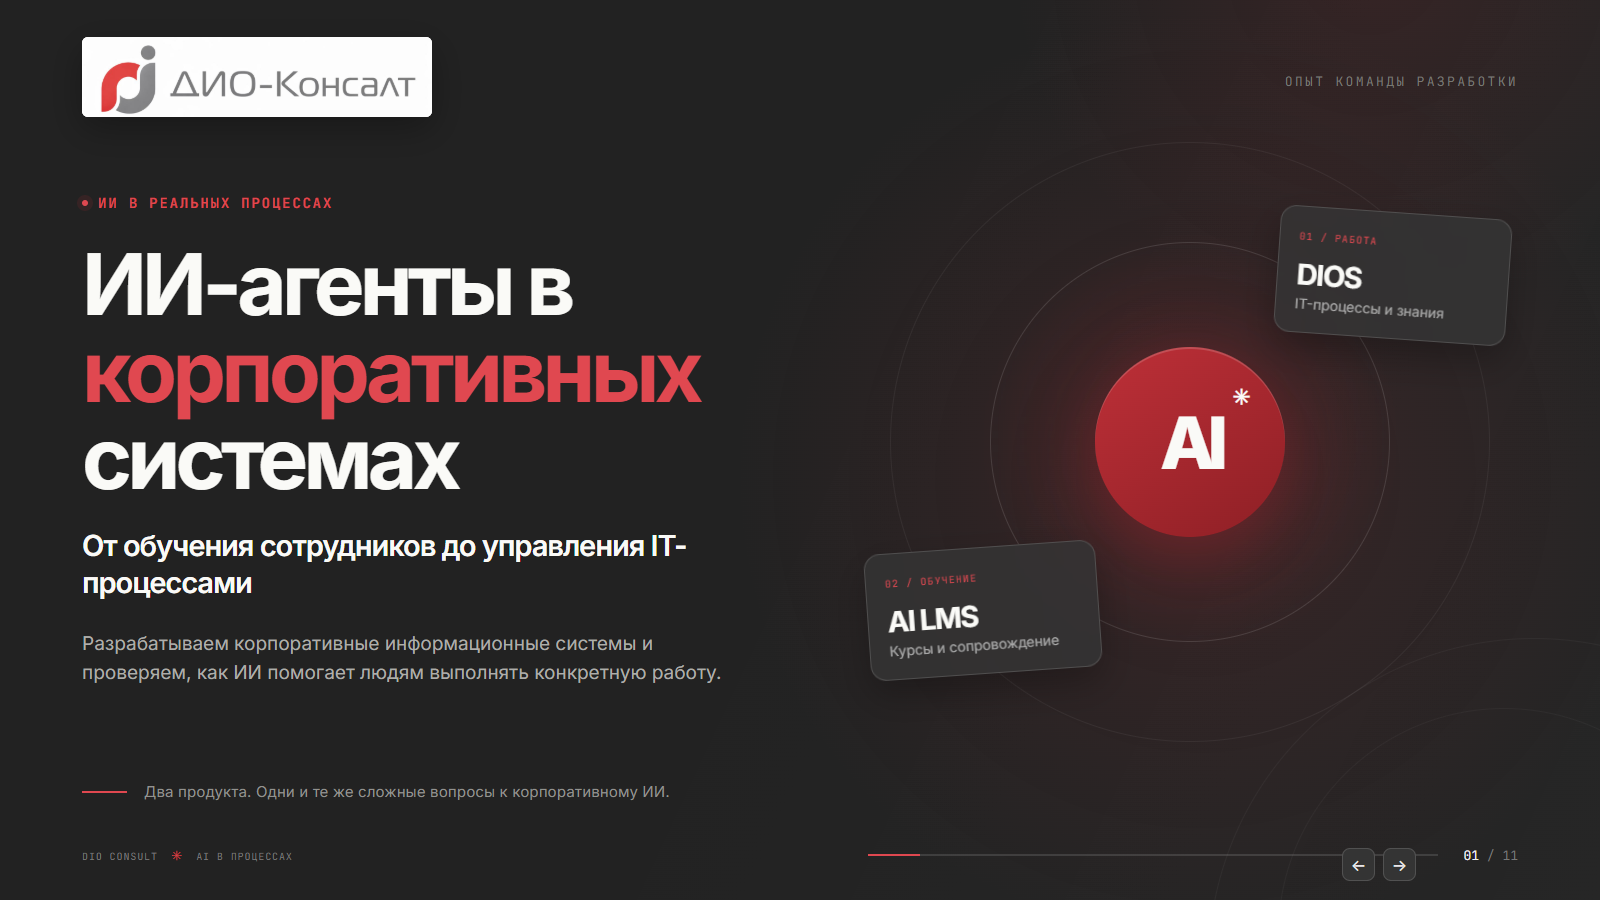
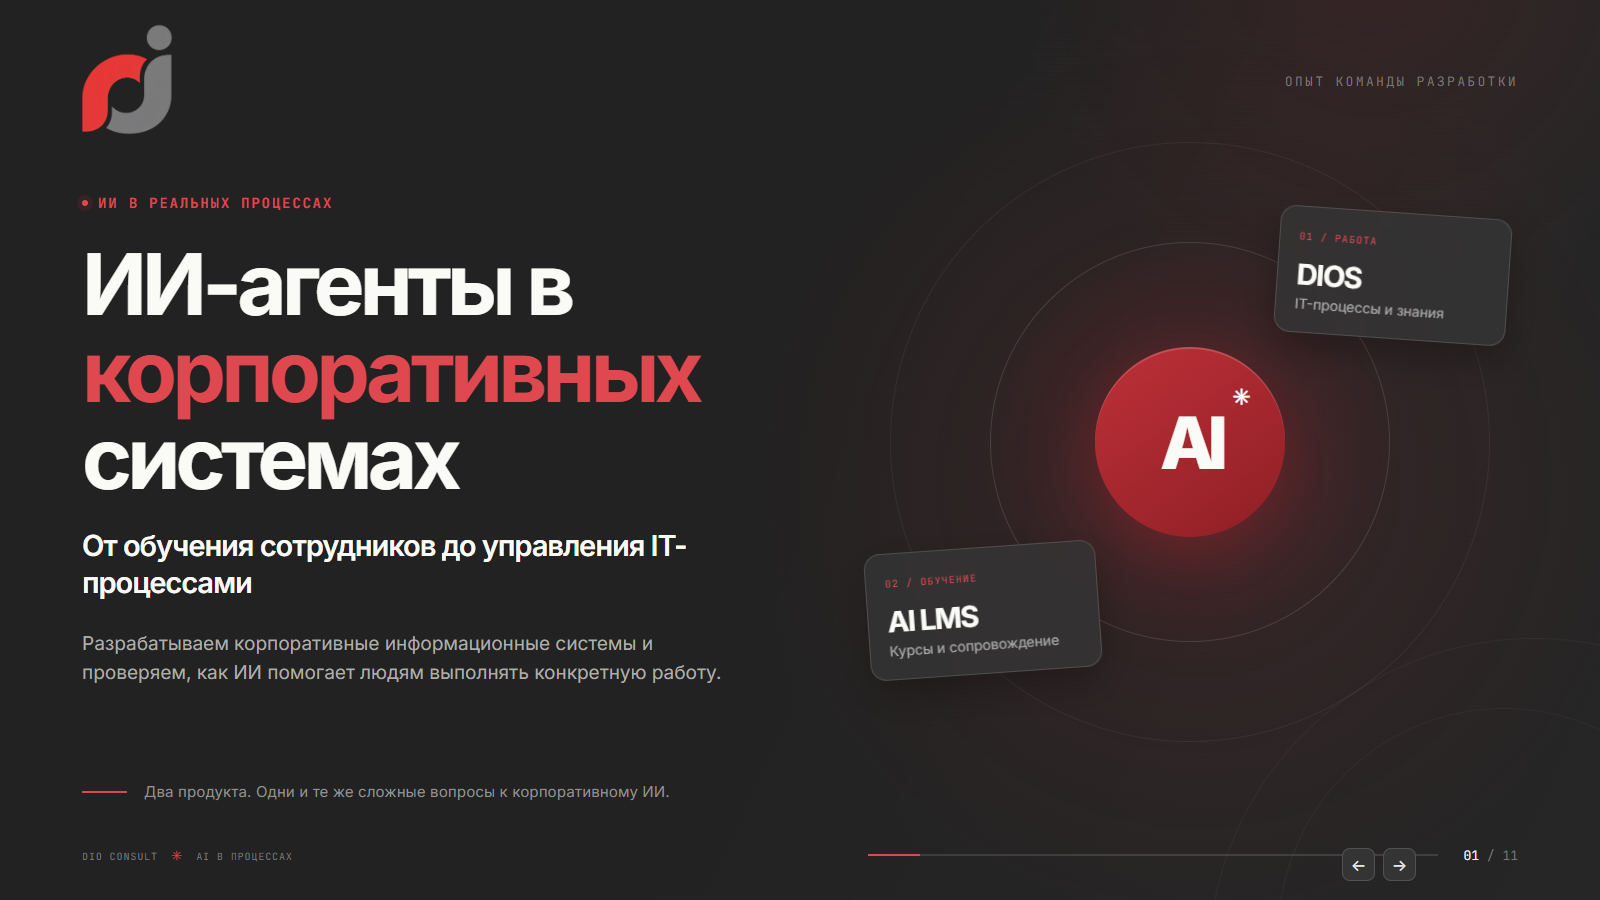
Use transparent DIO mark on opening slide

Changed region(s): [[0.0312, 0.0311, 0.2812, 0.1556]]

diff --git a/styles.css b/styles.css
@@ -24,8 +24,8 @@ button{cursor:pointer}
 .muted{color:var(--faint)}
 .topline{display:flex;justify-content:space-between;align-items:center;position:relative;z-index:2;height:42px}
 .topline .mono{font-size:13px;letter-spacing:.18em}
-.logo-plaque{display:block;position:relative;width:350px;height:80px;overflow:hidden;flex:none;background:#fff;border-radius:6px;box-shadow:0 12px 35px rgba(0,0,0,.3);margin-top:-8px}
-.logo-plaque img{display:block;position:absolute;left:0;top:-41px;width:350px;height:175px;max-width:none}
+.logo-mark{display:block;position:relative;width:95px;height:115px;overflow:hidden;flex:none}
+.logo-mark img{display:block;position:absolute;left:-25px;top:-15px;width:140px;height:136px;max-width:none}
 .brand{display:inline-flex;align-items:center;gap:12px;font-size:25px;font-weight:800;letter-spacing:-.065em;white-space:nowrap}
 .brand em{font-style:normal;font-weight:500;letter-spacing:-.045em}
 .brand-mark{position:relative;display:inline-block;width:26px;height:26px}

diff --git a/index.html b/index.html
@@ -15,7 +15,7 @@
       <div class="deck-glow" aria-hidden="true"></div>
 
       <section class="slide slide-intro active" data-slide aria-label="Слайд 1. DIO Consult и тема доклада">
-        <div class="topline"><span class="logo-plaque"><img src="assets/dio-consult-logo.png" alt="ДИО-Консалт"></span><span class="mono muted">ОПЫТ КОМАНДЫ РАЗРАБОТКИ</span></div>
+        <div class="topline"><span class="logo-mark"><img src="assets/dio-consult-mark.png" alt="Логотип ДИО"></span><span class="mono muted">ОПЫТ КОМАНДЫ РАЗРАБОТКИ</span></div>
         <div class="intro-grid">
           <div class="intro-copy">
             <span class="eyebrow"><span class="eyebrow-dot"></span> ИИ В РЕАЛЬНЫХ ПРОЦЕССАХ</span>
